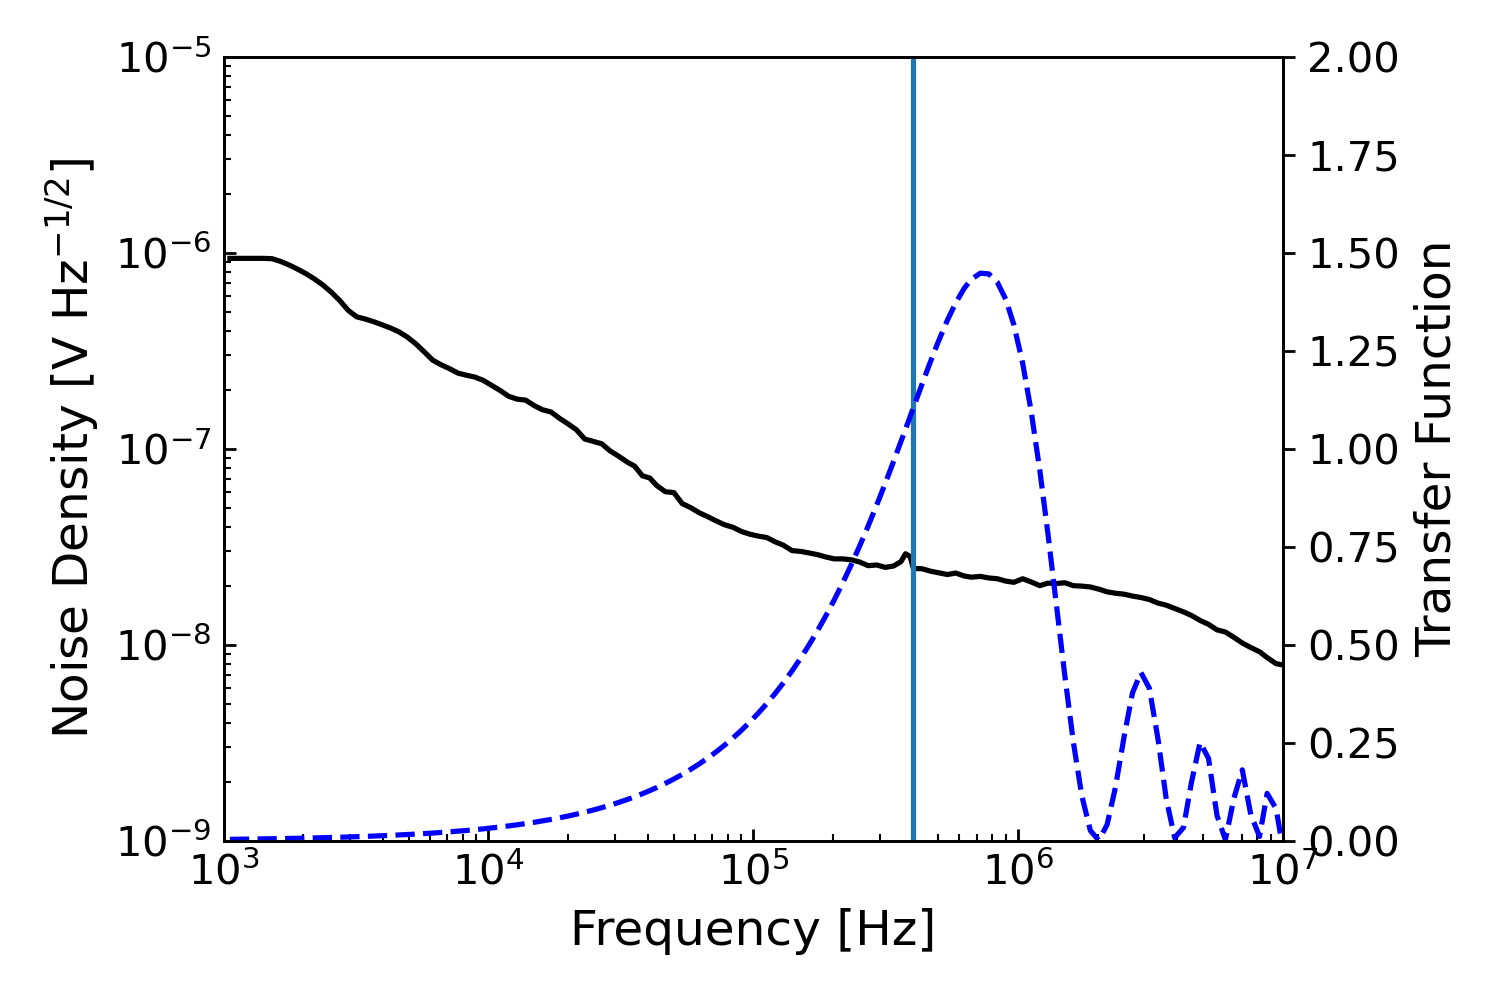
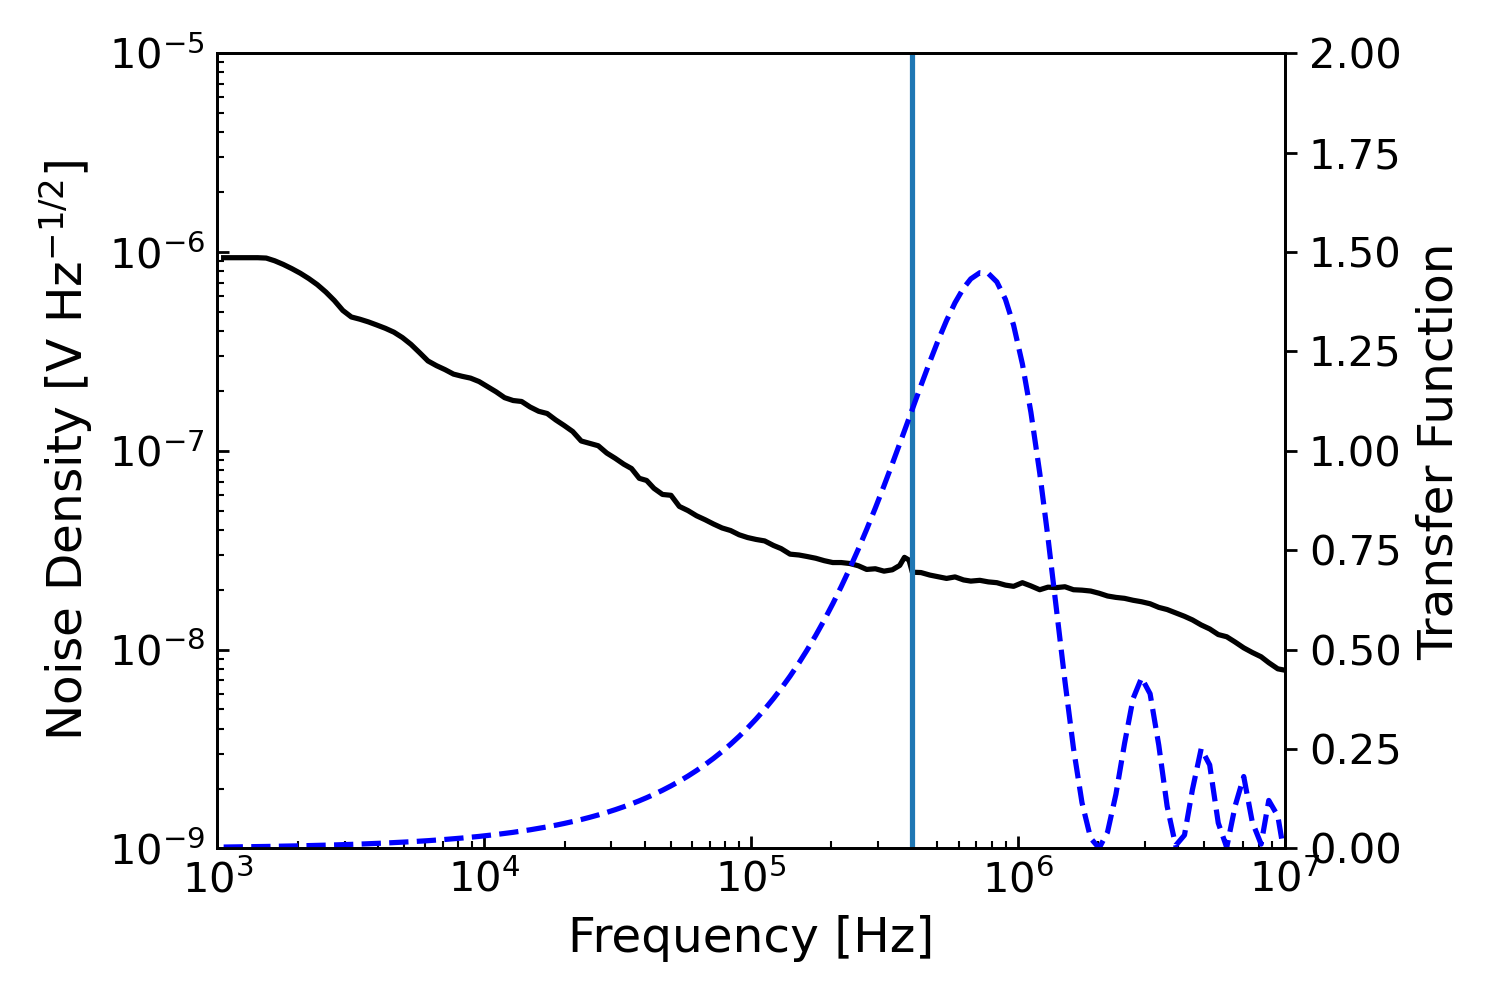
Update noise modeling

diff --git a/CCDs/Skipper_Noise/skipper_noise_modeling.py b/CCDs/Skipper_Noise/skipper_noise_modeling.py
@@ -1,3 +1,10 @@
+'''
+Skipper Read Noise Modelling 
+by Brock Parker
+
+Updated 5/20/2024
+'''
+
 import numpy as np
 import matplotlib.pyplot as plt
 import astropy.units as u
@@ -9,9 +16,10 @@ from scipy.optimize import curve_fit
 from astropy.modeling import models, fitting
 from astropy.modeling.models import custom_model
 from astropy.modeling import Fittable1DModel, Parameter
+# BP Import needed packages.
 
-
-machine = 'Linux'
+machine = 'Desktop'
+# BP Define what machine code is being run on to save files. For internal use only.
 
 if machine == 'Linux':
     path = '/home/baparker/GitHub'
@@ -19,13 +27,16 @@ elif machine == 'Laptop':
     path = 'C:/Users/Brock/Documents/Git'
 elif machine == 'Desktop':
     path = 'F:/Github'
+# BP Define file save path based on machine.
     
 plt.rc('axes', labelsize=14)
 plt.rc('figure', titlesize=30)
 plt.rc('xtick', labelsize=12)
 plt.rc('ytick', labelsize=12)
 plt.rc('legend', fontsize=12)
+# BP Plot stylization parameters.
 
+# BP
 @u.quantity_input(f=u.Hz, t=u.s, delay=u.s)
 def transfer(f, t, delay = 0*u.s):
     '''
@@ -47,7 +58,7 @@ def transfer_skipper(f, t, n, delay = 0*u.s):
     t = t / 2 + delay
 
     part1 = 4 * (np.sin((np.pi * f * t).to(u.rad, equivalencies=u.dimensionless_angles())))**2 / (2 * np.pi * f * t * n).to(u.rad, equivalencies=u.dimensionless_angles())
-    part2 = abs( np.sin((2*np.pi * f * t * n).value) / np.sin((2*np.pi * f * t).to(u.rad, equivalencies=u.dimensionless_angles())))
+    part2 = abs( np.sin((2*np.pi * f * t * n).to(u.rad, equivalencies=u.dimensionless_angles())) / np.sin((2*np.pi * f * t).to(u.rad, equivalencies=u.dimensionless_angles())))
 
     noise_density = part1 * part2
     # noise_density[f>1/t] = 0
@@ -102,6 +113,7 @@ def noise_model(f, ewn, f1, f2):
     # return ewn * ((f/f1)**-1 + 1) * (1 + (f/f2)**2)**-1
     return ewn * (1/(1 + (f/f2)**2) + 1/(f/f1))
 
+
 quantity_support()
 
 fig, ax = plt.subplots(1, 1, figsize=(5,4), layout='tight')
@@ -132,8 +144,6 @@ plt.savefig(path + '/Research/CCDs/Skipper_Noise/cds_transfer_func.png', dpi=250
 plt.show()
 
 
-
-
 fig, ax = plt.subplots(1, 1, figsize=(5,4), layout='tight')
 
 freqs = np.logspace(0,10,10000) * u.Hz
@@ -162,7 +172,7 @@ plt.savefig(path + '/Research/CCDs/Skipper_Noise/skipper_cds_transfer_func.png',
 plt.show()
 
 
-
+stop
 
 
 fig, ax = plt.subplots(1, 1, figsize=(5,4), layout='tight')
